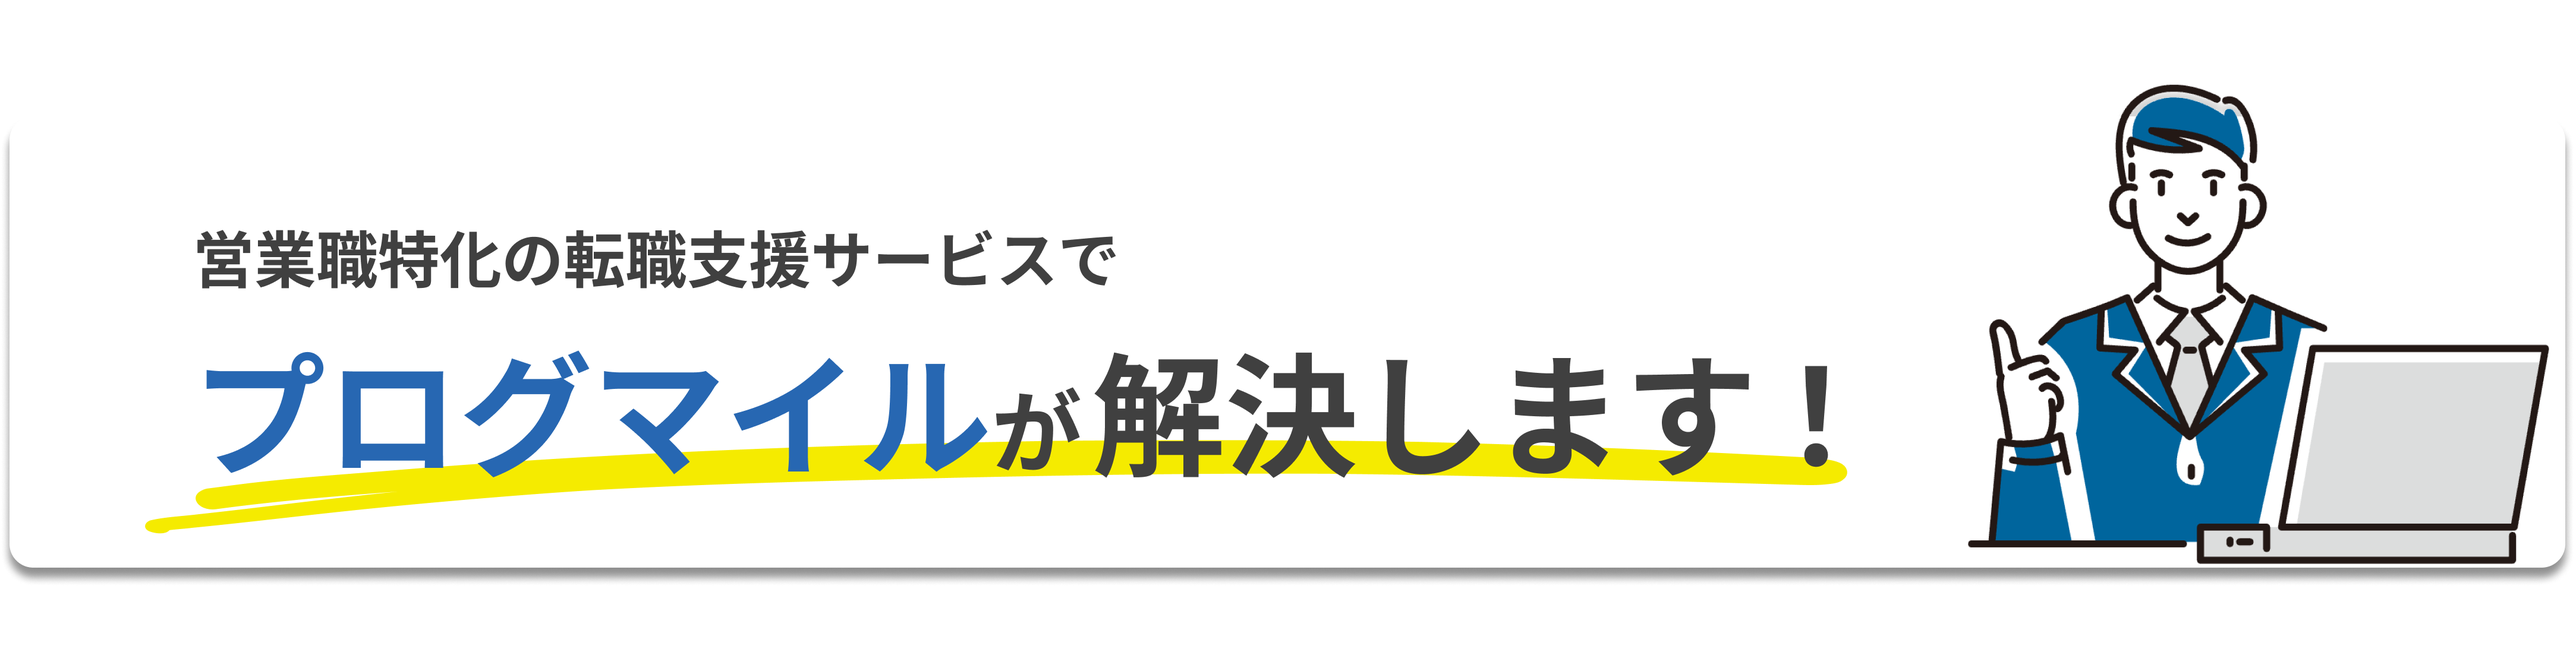
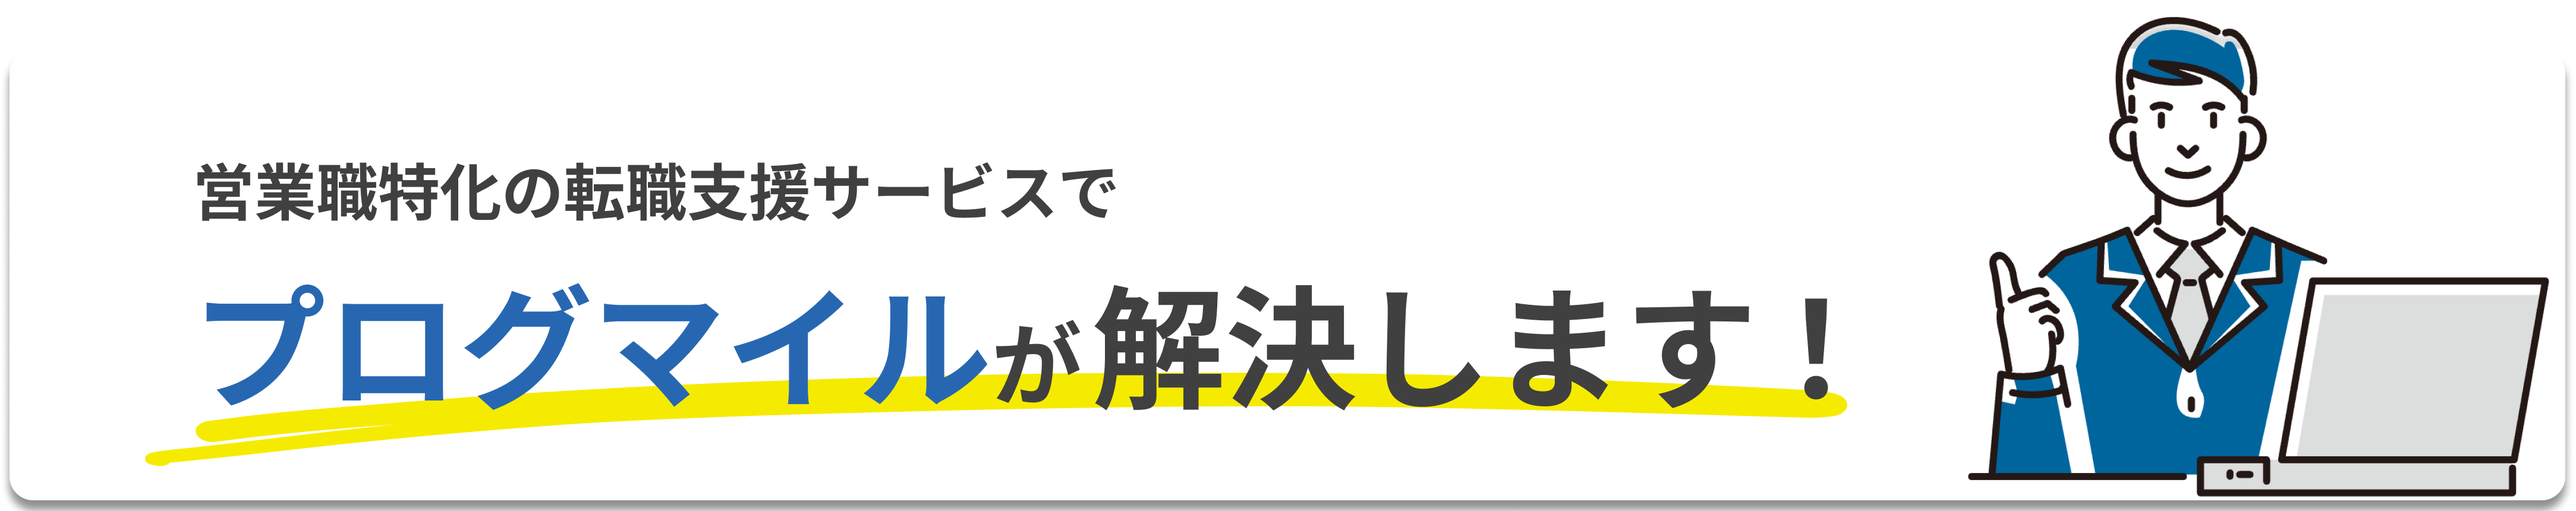
edit

diff --git a/index.html b/index.html
@@ -37,7 +37,7 @@
 
     <section class="bg-mv p-lg-0">
         <div class="row mw">
-            <div class="col-12 row position-fixed z-3 logo">
+            <div class="col-12 row position-fixed z-3 logo" id="header">
                 <a href="" class="col-2 col-md-1 text-center">
                     <img src="img/logo2.png" style="max-width: 75px;" class="ms-3">
                 </a>
@@ -89,11 +89,12 @@
 
     <section class="bg-img position-relative z-n1">
         <div class="row mw mb-5 my-lg-5">
-            <div class="col-12">
+            <div class="col-md-10 mx-auto">
                 <h2 class="text-dark mb-5">こんな方におすすめです</h2>
             </div>
-            <div class="d-none d-md-block col-1"></div>
-            <div class="col-12 col-md-11">
+            <div></div>
+            <div class="d-none d-md-block col-2"></div>
+            <div class="col-12 col-md-9">
                 <h4 class="text-dark check">
                     「営業の仕事に興味はあるけど未経験だから不安…」
                 </h4>
@@ -108,7 +109,7 @@
                 </h4>
             </div>
         </div>
-        <img class="img-intro" src="img/2.png">
+        <img class="img-intro" src="img/2-1.png">
     </section>
 
     <section class="bg-main">
@@ -120,7 +121,7 @@
             </div>
             <div class="col-lg-12  mb-5">
                 <h2 class="text-center">当サービスのポイント</h2>
-                <h3 class="text-center text-sub">SERVICE POINT</h3>
+                <h3 class="text-center text-sub">POINT</h3>
             </div>
             <div class="col-lg-10 mx-auto">
                 <div class="row mb-5 pb-5 justify-content-end">
@@ -129,7 +130,7 @@
                     </div>
                     <div class="col-lg-8">
                         <h4 class="text-sub fst-italic text-point">Point 01</h4>
-                        <h3 class="mb-0 fs-points">
+                        <h3 class="mb-2 fs-points">
                             営業職特化の<br>
                             人材エージェント
                         </h3>
@@ -145,7 +146,7 @@
                 <div class="row mb-5 pb-5 justify-content-start">
                     <div class="col-lg-8">
                         <h4 class="text-sub fst-italic text-point">Point 02</h4>
-                        <h3 class="mb-0 fs-points">
+                        <h3 class="mb-2 fs-points">
                             非公開求人・独占求人多数<br>
                             独占求人80％以上！
                         </h3>
@@ -166,7 +167,7 @@
                     </div>
                     <div class="col-lg-8">
                         <h4 class="text-sub fst-italic text-point">Point 03</h4>
-                        <h3 class="mb-0 fs-points">
+                        <h3 class="mb-2 fs-points">
                             充実した研修・サポート
                         </h3>
                         <img src="img/p3.png" class="d-block d-lg-none mb-3 w-75 mx-auto">
@@ -197,7 +198,7 @@
                 <div class="row justify-content-around">
                     <div class="col-5 col-lg-3 mb-3 mb-lg-5 d-shadow d-flex flex-column">
                         <h3 class="text-center bg-sub py-2 mb-0 rounded-3">Point1</h3>
-                        <div class="bg-white p-2 p-lg-3 rounded-3 text-center flex-grow-1">
+                        <div class="bg-white p-1 p-lg-3 rounded-3 text-center flex-grow-1">
                             <img src="img/m1.png" class="w-50">
                             <p class="col-auto text-main">
                                 成果が<br>目に見える
@@ -206,7 +207,7 @@
                     </div>
                     <div class="col-5 col-lg-3 mb-3 mb-lg-5 d-shadow d-flex flex-column">
                         <h3 class="text-center bg-sub py-2 mb-0 rounded-3">Point2</h3>
-                        <div class="bg-white p-2 p-lg-3 rounded-3 text-center flex-grow-1">
+                        <div class="bg-white p-1 p-lg-3 rounded-3 text-center flex-grow-1">
                             <img src="img/m2.png" class="w-50">
                             <p class="col-auto text-main">
                                 コミュニケーション<br>スキルが向上
@@ -215,7 +216,7 @@
                     </div>
                     <div class="col-5 col-lg-3 mb-3 mb-lg-5 d-shadow d-flex flex-column">
                         <h3 class="text-center bg-sub py-2 mb-0 rounded-3">Point3</h3>
-                        <div class="bg-white p-2 p-lg-3 rounded-3 text-center flex-grow-1">
+                        <div class="bg-white p-1 p-lg-3 rounded-3 text-center flex-grow-1">
                             <img src="img/m3.png" class="w-50">
                             <p class="col-auto text-main">
                                 様々な人や業界と<br>接点が持てる
@@ -224,7 +225,7 @@
                     </div>
                     <div class="col-5 col-lg-3 mb-3 mb-lg-5 d-shadow d-flex flex-column">
                         <h3 class="text-center bg-sub py-2 mb-0 rounded-3">Point4</h3>
-                        <div class="bg-white p-2 p-lg-3 rounded-3 text-center flex-grow-1">
+                        <div class="bg-white p-1 p-lg-3 rounded-3 text-center flex-grow-1">
                             <img src="img/m4.png" class="w-50">
                             <p class="col-auto text-main">
                                 自己成長の<br>機会が多い
@@ -233,7 +234,7 @@
                     </div>
                     <div class="col-5 col-lg-3 mb-3 mb-lg-5 d-shadow d-flex flex-column">
                         <h3 class="text-center bg-sub py-2 mb-0 rounded-3">Point5</h3>
-                        <div class="bg-white p-2 p-lg-3 rounded-3 text-center flex-grow-1">
+                        <div class="bg-white p-1 p-lg-3 rounded-3 text-center flex-grow-1">
                             <img src="img/m5.png" class="w-50">
                             <p class="col-auto text-main">
                                 自由度が<br>高い
@@ -242,7 +243,7 @@
                     </div>
                     <div class="col-5 col-lg-3 mb-3 mb-lg-5 d-shadow d-flex flex-column">
                         <h3 class="text-center bg-sub py-2 mb-0 rounded-3">Point6</h3>
-                        <div class="bg-white p-2 p-lg-3 rounded-3 text-center flex-grow-1">
+                        <div class="bg-white p-1 p-lg-3 rounded-3 text-center flex-grow-1">
                             <img src="img/m6.png" class="w-50">
                             <p class="col-auto text-main">
                                 感謝や信頼を<br>得られる喜び
@@ -251,7 +252,7 @@
                     </div>
                     <div class="col-5 col-lg-3 mb-0 mb-lg-5 d-shadow d-flex flex-column">
                         <h3 class="text-center bg-sub py-2 mb-0 rounded-3">Point7</h3>
-                        <div class="bg-white p-2 p-lg-3 rounded-3 text-center flex-grow-1">
+                        <div class="bg-white p-1 p-lg-3 rounded-3 text-center flex-grow-1">
                             <img src="img/m7.png" class="w-50">
                             <p class="col-auto text-main">
                                 収入アップの<br>可能性が高い
@@ -260,7 +261,7 @@
                     </div>
                     <div class="col-5 col-lg-3 mb-0 mb-lg-5 d-shadow d-flex flex-column">
                         <h3 class="text-center bg-sub py-2 mb-0 rounded-3">Point8</h3>
-                        <div class="bg-white p-2 p-lg-3 rounded-3 text-center flex-grow-1">
+                        <div class="bg-white p-1 p-lg-3 rounded-3 text-center flex-grow-1">
                             <img src="img/m8.png" class="w-50">
                             <p class="col-auto text-main">
                                 問題解決能力が<br>身につく
@@ -275,12 +276,12 @@
 
     <section class="bg-main">
         <div class="row mw">
-            <div class="col-lg-10 mx-auto mb-5">
+            <div class="col-lg-10 mx-auto mb-5 mb-lg-0">
                 <img src="img/banner1.png" class="d-none d-lg-block">
                 <img src="img/banner1_sp.png" class="d-lg-none">
             </div>
             <div class="col-lg-12  text-center">
-                <a href="" class="btn">
+                <a href="" class="btn mb-0">
                     無料相談はこちら
                     <span>＞</span>
                 </a>
@@ -685,12 +686,12 @@
 
     <section class="bg-main">
         <div class="row mw">
-            <div class="col-lg-10 mx-auto mb-5">
+            <div class="col-lg-10 mx-auto mb-5 mb-lg-0">
                 <img src="img/banner1.png" class="d-none d-lg-block">
                 <img src="img/banner1_sp.png" class="d-lg-none">
             </div>
             <div class="col-lg-10 mx-auto text-center">
-                <a href="" class="btn">
+                <a href="" class="btn mb-0">
                     無料相談はこちら
                     <span>＞</span>
                 </a>
@@ -781,10 +782,10 @@
 
     <section class="bg-main">
         <div class="row mw">
-            <div class="col-lg-10 mb-5 mx-auto">
+            <!-- <div class="col-lg-10 mb-5 mx-auto">
                 <img src="img/banner1.png" class="d-none d-lg-block">
                 <img src="img/banner1_sp.png" class="d-lg-none">
-            </div>
+            </div> -->
             <div class="col-lg-12 mb-3 mb-lg-5">
                 <h2 class="text-center">エントリーはこちらから</h2>
                 <h3 class="text-center text-sub">ENTRY FORM</h3>
@@ -864,7 +865,7 @@
                 <img src="img/logo2_white.png" style="max-width:200px !important;">
             </div>
             <div class="col-12 my-5 bg-white line rounded-3"></div>
-            <div class="col-lg-6 text-center text-lg-start mb-5 mb-lg-0">
+            <div class="col-lg-6 text-center text-lg-start mb-5 mb-lg-0 text-foot">
                 <a class="text-white me-lg-3 fs-5">利用規約</a><br class="d-lg-none"><br class="d-lg-none">
                 <a class="text-white me-lg-3 fs-5">プライバシーポリシー</a><br class="d-lg-none"><br class="d-lg-none">
                 <a class="text-white me-lg-3 fs-5">運営会社</a>
@@ -925,6 +926,20 @@
                 h = d.documentElement, t = setTimeout(function () { h.className = h.className.replace(/\bwf-loading\b/g, "") + " wf-inactive"; }, config.scriptTimeout), tk = d.createElement("script"), f = false, s = d.getElementsByTagName("script")[0], a; h.className += " wf-loading"; tk.src = 'https://use.typekit.net/' + config.kitId + '.js'; tk.async = true; tk.onload = tk.onreadystatechange = function () { a = this.readyState; if (f || a && a != "complete" && a != "loaded") return; f = true; clearTimeout(t); try { Typekit.load(config) } catch (e) { } }; s.parentNode.insertBefore(tk, s)
         })(document);
     </script>
+
+    <script>
+        window.addEventListener('scroll', () => {
+            //スクロール高さ取得
+            let scroll = window.pageYOffset;
+            //px単位で色の変更開始位置指定
+            if (scroll >= 20) {
+                window.document.getElementById('header').style.backgroundColor = 'rgb(255 255 255 / 75%)';
+            } else {
+                window.document.getElementById('header').style.backgroundColor = 'transparent';
+            }
+        });
+    </script>
+
 </body>
 
 </html>

diff --git a/css/add.css b/css/add.css
@@ -50,7 +50,7 @@ h5{
 }
 p{
     color: #fff;
-    letter-spacing: 0px;
+    letter-spacing: -0.5px;
     line-height: 200%;
     font-size: 15px;
 }
@@ -67,6 +67,9 @@ a{
 }
 .text-flow{
 font-size: 3rem;
+}
+.text-foot a{
+    font-size: 0.9rem !important;
 }
 
 .btn{
@@ -86,6 +89,7 @@ font-size: 3rem;
     position: relative;
     -webkit-transition: all .3s;
     transition: all .3s;
+    font-weight: bold !important;
 }
 .btn:hover {
     color: white !important;
@@ -115,12 +119,18 @@ img {
 }
 
 .img-intro{
-    position: absolute;
+    /* position: absolute;
     bottom: 0;
     right: 15vw;
     width: 30% !important;
+    z-index: -1; */
+    position: absolute;
+    bottom: -5%;
+    right: 25vw;
+    width: 24% !important;
     z-index: -1;
 }
+
 
 .cover{
     object-fit: cover;
@@ -152,7 +162,7 @@ section{
 
 /* 背景 */
 .bg-main{
-    background: linear-gradient(170deg, #035A89 0%,#2589B5 34%,#76B6CB 74%,#B4CDD2 87%,#F3E5DA 100% );
+    background: linear-gradient(170deg, #035A89 0%,#2589B5 34%,#76B6CB 84%,#B4CDD2 97%,#F3E5DA 100% );
 }
 .bg-sub{
     background: #00659D;
@@ -207,7 +217,7 @@ section{
     position: absolute;
     top: calc(50% - 1px);
     right: 0;
-    width: 70%;
+    width: 85%;
     height: 2px;
     content: '';
     background: #FFFF00;
@@ -230,7 +240,10 @@ section{
     border:none;
 }
 .logo{
-    top:25px;left: 20px;
+    top:0px;
+    left: 0px;
+    padding: 15px ;
+    transition: all, 0.5s;
 }
 
 .carousel-control-next {
@@ -304,11 +317,11 @@ h4{
     background-size: contain;
 }
 
-.img-intro{
-    right: 3vw;
-    width: 40% !important;
-}
 
+
+.text-point::before {
+    width: 80%;
+}
 
 }
 
@@ -379,9 +392,15 @@ font-size: 1rem;
 }
 
 .logo{
-    top:20px;
-    left: 0px;
-    padding: 0;
+    padding:15px 0px;
+}
+
+.img-intro{
+    /* right: 3vw;
+    width: 40% !important; */
+    right: 0%;
+    bottom: -3%;
+    width: 33% !important;
 }
 
 }
